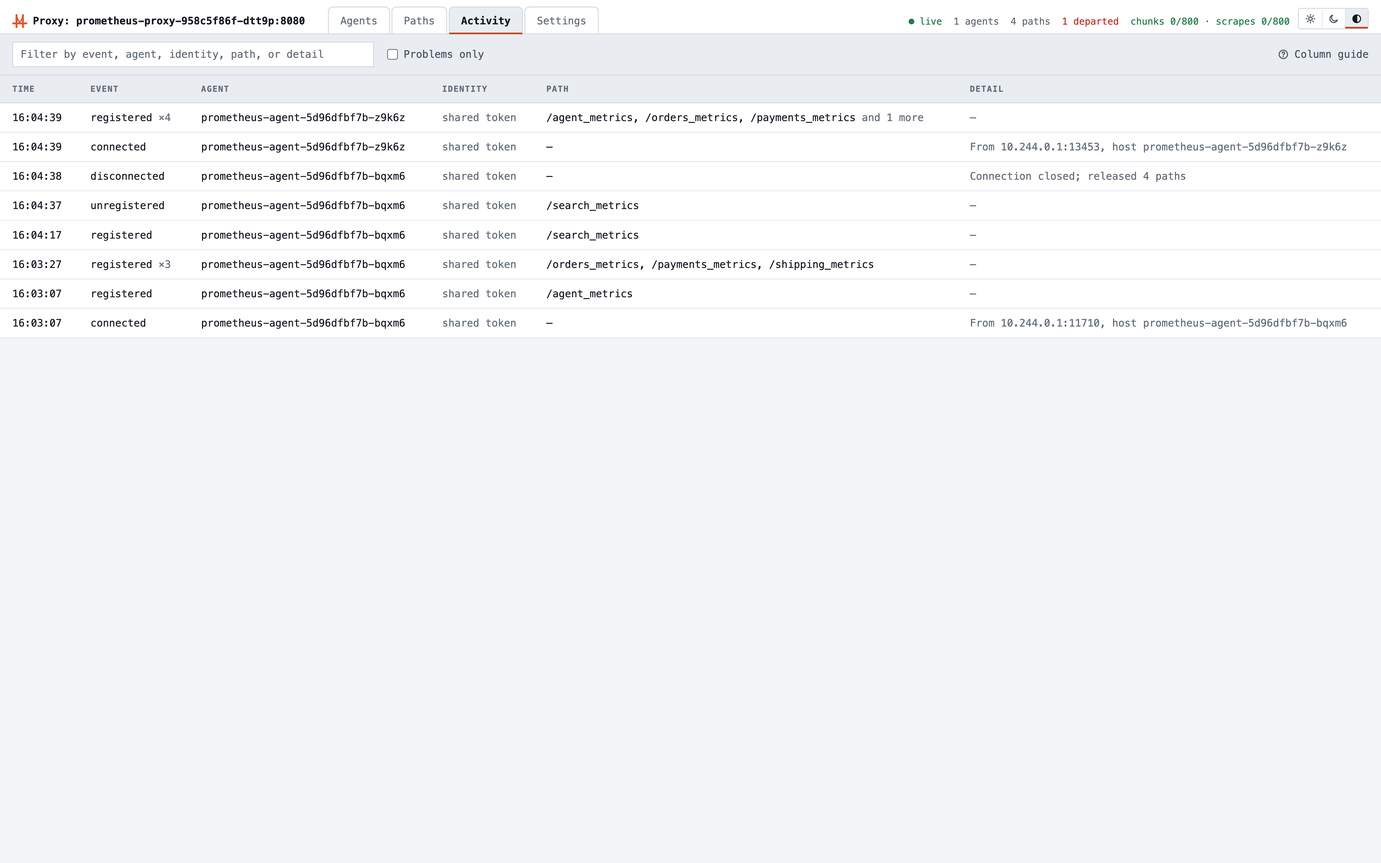
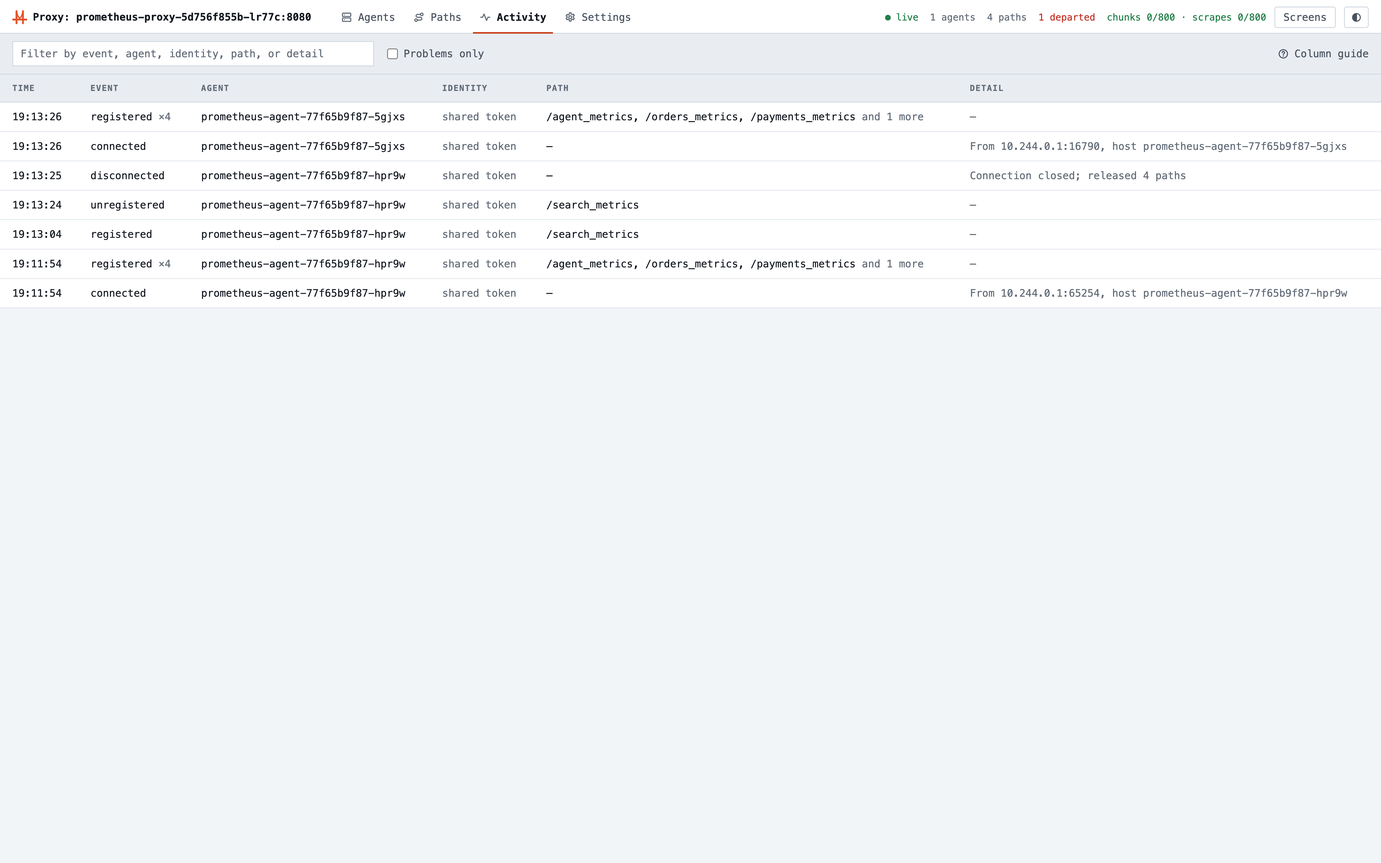
Run the Kubernetes demo's tour in the proxy's screens page (#590)
The proxy's config lists the agent's dashboard, at the port demo.sh agent-dashboard forwards, and Prometheus's targets
as screens. demo.sh gives the proxy each screen's address through the proxy chart's env, from the ports kind publishes
and the forward holds, so a port moved for make up moves its tab too. make up prints and waits for the page, make open
opens it, and the tour, scenarios, README, and docs page link into it, with part 3 putting the proxy's Paths view
beside Prometheus's targets as a Service is annotated, and part 4 the proxy's Activity view beside the new agent pod's.
make screenshots adds a shot of the page, with the agent forwarded, and NEEDS_RELEASE_AFTER moves to 4.7.0.

DemoScreensLinksTest checks the demo: its port check reads the chart's env values in demo.sh, expanding the shell
variables they name, and takes a port kind publishes or the agent dashboard's forward, where it took compose's alone.

Claude-Session: https://claude.ai/code/session_01U6pyN4Zf6PDzS9sQqGRssh

diff --git a/src/test/kotlin/io/prometheus/misc/DemoScreensLinksTest.kt b/src/test/kotlin/io/prometheus/misc/DemoScreensLinksTest.kt
@@ -38,13 +38,14 @@ import java.io.File
 class DemoScreensLinksTest : StringSpec() {
   // A demo whose tour runs in a screens page: its directory, the proxy config (in the directory) that lists the
   // screens, its docs page, the page's address at the default port, the compose service of the proxy that serves it,
-  // and, for a demo that stops that proxy, the stretches of its files read while it's down.
+  // or null for the Kubernetes demo's, which the proxy chart runs, and, for a demo that stops that proxy, the stretches
+  // of its files read while it's down.
   private data class ScreensDemo(
     val dir: String,
     val config: String,
     val page: String,
     val pageUrl: String,
-    val proxyService: String,
+    val proxyService: String?,
     val proxyDown: List<ProxyDown> = emptyList(),
   ) {
     // A link in the README or docs page, which give the page's address at the default port.
@@ -152,6 +153,47 @@ class DemoScreensLinksTest : StringSpec() {
         text.isNotEmpty() && !text.startsWith("#") && line.length - text.length <= 2
       }
     return (if (end < 0) rest else rest.take(end)).joinToString("\n")
+  }
+
+  // The page's proxy's environment, a line "NAME: value" for each variable, with each port variable in a value written
+  // ${VARIABLE:-default}: compose's, for the proxy's service, or, for the Kubernetes demo's proxy, the env values
+  // demo.sh gives the proxy chart, each shell variable in them replaced by what the script sets it to.
+  private fun ScreensDemo.proxyEnvironment(): String {
+    if (proxyService != null) return composeService(proxyService)
+    val script = File(dir, "demo.sh").readText()
+    val values = CHART_ENV_VALUE.findAll(script).associate { it.groupValues[1] to it.groupValues[2] }
+    return CHART_ENV_NAME.findAll(script).joinToString("\n") { name ->
+      "  ${name.groupValues[2]}: ${expanded(script, values[name.groupValues[1]].orEmpty())}"
+    }
+  }
+
+  // [text] with each $NAME or ${NAME} in it replaced by what [script] sets NAME to, in turn, until only the
+  // ${VARIABLE:-default} a port is read from are left, a cluster_port call's default being its last argument.
+  private fun expanded(
+    script: String,
+    text: String,
+  ): String =
+    SHELL_VARIABLE.replace(text) { match ->
+      val name = match.groupValues[1].ifEmpty { match.groupValues[2] }
+      val assigned = Regex("""(?m)^${Regex.escape(name)}="(.*)"$""").find(script)?.groupValues?.get(1)
+      if (assigned == null) {
+        match.value
+      } else {
+        CLUSTER_PORT.find(assigned)?.let { "\${${it.groupValues[1]}:-${it.groupValues[2]}}" }
+          ?: expanded(script, assigned)
+      }
+    }
+
+  // Whether the demo publishes a port on the host from [variable]: compose's 127.0.0.1:${variable:-<port>}:, or, for
+  // the Kubernetes demo, a kind node's hostPort whose comment names it, or demo.sh's port-forward to a port it sets.
+  private fun ScreensDemo.publishes(variable: String): Boolean {
+    if (proxyService != null) return published(variable).containsMatchIn(File(dir, COMPOSE).readText())
+    val kind = File(dir, "kind").listFiles().orEmpty().joinToString("\n") { it.readText() }
+    if (Regex("""hostPort: \d+ +# ${Regex.escape(variable)}\b""").containsMatchIn(kind)) return true
+    val script = File(dir, "demo.sh").readText()
+    return Regex("""(?m)^([A-Z_]+)="\$\{${Regex.escape(variable)}:-\d+}"$""").findAll(script).any { port ->
+      Regex("""port-forward [^;\n]*(\\\n[^;\n]*)?"\$${port.groupValues[1]}:""").containsMatchIn(script)
+    }
   }
 
   init {
@@ -267,26 +309,26 @@ class DemoScreensLinksTest : StringSpec() {
       }
     }
 
-    // A screen's url is its default port's, and compose gives the page's proxy the url a moved port makes, as ${?NAME},
-    // so a port moved with a *_PORT variable moves its tab too. Each ${?NAME} in the config is set to a marker, so each
-    // url says which variable it reads. Compose's value, its ports at their defaults, must be the screen's url, and
-    // each port variable in it one that publishes a port: a screen with no override, a variable compose doesn't set,
-    // or one that names another screen's port, as a slip among the near-identical lines would, leaves the tab behind.
-    "every screen should follow its port: compose gives the page's proxy each url, from the port it publishes" {
+    // A screen's url is its default port's, and the page's proxy is given the url a moved port makes, as ${?NAME}, by
+    // compose, or by demo.sh through the proxy chart's env, so a port moved with a *_PORT variable moves its tab too.
+    // Each ${?NAME} in the config is set to a marker, so each url says which variable it reads. The value given, its
+    // ports at their defaults, must be the screen's url, and each port variable in it one that publishes a port: a
+    // screen with no override, a variable the proxy isn't given, or one that names another screen's port, as a slip
+    // among the near-identical lines would, leaves the tab behind.
+    "every screen should follow its port: the page's proxy is given each url, from a port the demo publishes" {
       DEMOS.forEach { demo ->
         withClue(demo.dir) {
           val names = OPTIONAL.findAll(File(demo.dir, demo.config).readText()).map { it.groupValues[1] }.toSet()
           val urls = demo.entries(names.associateWith { "$MARKER$it" }).associate { it.name to it.url }
           urls.filterValues { !it.startsWith(MARKER) }.keys.shouldBeEmpty()
           val defaults = demo.entries().associate { it.name to it.url }
-          val service = demo.composeService(demo.proxyService)
-          val compose = File(demo.dir, COMPOSE).readText()
+          val environment = demo.proxyEnvironment()
           urls
             .mapNotNull { (screen, marked) ->
               val name = marked.removePrefix(MARKER)
               val value =
-                Regex("""(?m)^\s+${Regex.escape(name)}:\s*(\S+)""").find(service)?.groupValues?.get(1)
-                  ?: return@mapNotNull "$screen: compose doesn't give ${demo.proxyService} $name"
+                Regex("""(?m)^\s+${Regex.escape(name)}:\s*(\S+)""").find(environment)?.groupValues?.get(1)
+                  ?: return@mapNotNull "$screen: ${demo.proxyService ?: "the proxy chart"} isn't given $name"
               val ports = PORT_DEFAULT.findAll(value).map { it.groupValues[1] }.toList()
               val atDefaults = PORT_DEFAULT.replace(value) { it.groupValues[2] }
               when {
@@ -298,8 +340,8 @@ class DemoScreensLinksTest : StringSpec() {
                   "$screen: $name names no port variable"
                 }
 
-                ports.any { !published(it).containsMatchIn(compose) } -> {
-                  "$screen: $name's port isn't one compose publishes"
+                ports.any { !demo.publishes(it) } -> {
+                  "$screen: $name's port isn't one the demo publishes"
                 }
 
                 else -> {
@@ -345,6 +387,14 @@ class DemoScreensLinksTest : StringSpec() {
 
     // A port compose publishes on the host from [variable]: "127.0.0.1:${variable:-<port>}:<port in the container>".
     fun published(variable: String) = Regex("""127\.0\.0\.1:\$\{${Regex.escape(variable)}:-\d+}:""")
+
+    // The Kubernetes demo's env values for the proxy chart, each "env[<i>].name=<NAME>" and "env[<i>].value=<value>"
+    // in demo.sh; a port demo.sh reads with cluster_port "${VARIABLE:-}" <NodePort> <default>; and a shell variable,
+    // $NAME or ${NAME}, but not ${NAME:-default}.
+    val CHART_ENV_NAME = Regex("""env\[(\d+)]\.name=([A-Za-z0-9_]+)""")
+    val CHART_ENV_VALUE = Regex("""env\[(\d+)]\.value=([^"\s]+)""")
+    val CLUSTER_PORT = Regex("""cluster_port "\$\{([A-Za-z0-9_]+):-}" \d+ (\d+)""")
+    val SHELL_VARIABLE = Regex("""\$(?:([A-Za-z_][A-Za-z0-9_]*)|\{([A-Za-z_][A-Za-z0-9_]*)})""")
 
     val BASICS =
       ScreensDemo(
@@ -488,6 +538,17 @@ class DemoScreensLinksTest : StringSpec() {
           ),
       )
 
-    val DEMOS = listOf(BASICS, NETWORK, KTOR, NGINX, PLAIN_KOTLIN, SPRING_BOOT)
+    // The Kubernetes demo's page is the proxy's, which the proxy chart runs, and no part of its tour stops; demo.sh
+    // gives it each screen's url through the chart's env.
+    val KUBERNETES =
+      ScreensDemo(
+        dir = "demos/kubernetes",
+        config = "config/proxy.conf",
+        page = "website/prometheus-proxy/docs/kubernetes-demo.md",
+        pageUrl = "http://localhost:8294/screens",
+        proxyService = null,
+      )
+
+    val DEMOS = listOf(BASICS, NETWORK, KTOR, NGINX, PLAIN_KOTLIN, SPRING_BOOT, KUBERNETES)
   }
 }

diff --git a/demos/kubernetes/README.md b/demos/kubernetes/README.md
@@ -47,7 +47,7 @@ its targets:
 ```bash
 git clone -c advice.detachedHead=false --depth 1 --branch 4.7.1 https://github.com/pambrose/prometheus-proxy.git
 cd prometheus-proxy/demos/kubernetes
-make up      # creates both clusters, installs everything, and prints the URLs
+make up      # creates both clusters, installs everything, and prints the screens page's URL
 make tour    # walks through the guided tour below, pausing before each step
 make down    # deletes both clusters
 ```
@@ -57,15 +57,21 @@ the agent's and Python's, which takes a few minutes. After that, `make up` on ru
 `make down` deletes the clusters, and the images inside them, so the next `make up` needs a network connection again.
 To show it without a network connection, run `make up` once beforehand and leave it running.
 
+Then open the proxy's [screens page](https://prometheus-proxy.com/web-dashboard/#screens), one browser tab that holds
+every screen in the demo, each in a tab of its own: the proxy's dashboard, the agent's, and Prometheus. The agent's tab
+is red until `./demo.sh agent-dashboard` forwards its port, below. `make open` opens it, and the guided tour's links
+open in it: <http://localhost:8294/>
+
+Each screen also has an address of its own, which the table gives with the variable that moves its port:
+
 | What | URL | Port variable |
 |---|---|---|
+| The screens page, every screen in one tab | <http://localhost:8294/> | `KUBERNETES_DEMO_DASHBOARD_PORT` |
 | Proxy dashboard | <http://localhost:8294/dashboard> | `KUBERNETES_DEMO_DASHBOARD_PORT` |
 | Agent dashboard | <http://localhost:8295/dashboard>, while `./demo.sh agent-dashboard` runs | `KUBERNETES_DEMO_AGENT_DASHBOARD_PORT` |
 | Prometheus | <http://localhost:9290> (targets at `/targets`) | `KUBERNETES_DEMO_PROMETHEUS_PORT` |
 | The proxy's service discovery | <http://localhost:8280/discovery> | `KUBERNETES_DEMO_PROXY_PORT` |
 | `kubectl` | `kubectl --context kind-pp-monitoring …` and `kubectl --context kind-pp-target …` | — |
-
-`make open` opens the proxy dashboard and Prometheus's targets in your browser.
 
 Each port is the basics demo's plus 200, so the demos can run side by side. kind publishes the ports, through NodePort
 Services in the monitoring cluster, when it creates `pp-monitoring`, so if one is already taken, set its variable from
@@ -78,13 +84,13 @@ Every port binds to `127.0.0.1` only. The dashboard runs without its login, so t
 anything shared.
 
 The agent dashboard's port, 8295, isn't one kind publishes: `pp-target` publishes none, and the agent chart leaves the
-dashboard off the agent's Service. `./demo.sh agent-dashboard` reaches it as the chart's notes tell an operator to,
-with `kubectl --context kind-pp-target -n monitoring port-forward deploy/prometheus-agent 8295:8095`, in the
-foreground. It holds the port only while it runs, on `localhost` only, and `KUBERNETES_DEMO_AGENT_DASHBOARD_PORT` moves
-it without recreating a cluster. Nothing keeps it, so give it to each `./demo.sh agent-dashboard` and `make tour`, or
-export it in your shell. A port-forward reaches one pod, so once the agent's pod is replaced, as
-`delete-agent-pod` and `change-config` do, it fails at the next request, with `error: lost connection to pod`: run it
-again. The agent's dashboard runs without its login too.
+dashboard off the agent's Service. `./demo.sh agent-dashboard` reaches it as the chart's notes tell an operator to, with
+`kubectl --context kind-pp-target -n monitoring port-forward deploy/prometheus-agent 8295:8095`, in the foreground. It
+holds the port only while it runs, on `localhost` only, and `KUBERNETES_DEMO_AGENT_DASHBOARD_PORT` moves it without
+recreating a cluster. Nothing keeps it, so give it to each `./demo.sh agent-dashboard` and `make tour`, or export it in
+your shell, and to a `make up`, which gives the screens page's agent tab the port. A port-forward reaches one pod, so
+once the agent's pod is replaced, as `delete-agent-pod` and `change-config` do, it fails at the next request, with
+`error: lost connection to pod`: run it again. The agent's dashboard runs without its login too.
 
 kind adds a `kind-pp-monitoring` and a `kind-pp-target` context to your kubeconfig. `demo.sh` names the context on
 every command, and puts back the context that was current when it creates a cluster.
@@ -132,9 +138,10 @@ These are the earlier demos' proxy and agent, now deployed with their Helm chart
 - `helm list` shows the proxy chart in `pp-monitoring` and the agent chart in `pp-target`: the charts the project
   ships, given nothing but a values file and a config file each, and, for the agent, the proxy's address.
 - Prometheus's config names no target in `pp-target`. Its one job asks the proxy's `/discovery` what to scrape.
-- Open the proxy dashboard. One agent is connected, named for its pod, `prometheus-agent-<hash>-<id>`, the name
-  `kubectl` shows, with four paths: its own metrics (source **cfg**, from its config) and the three services (source
-  **disc**, from discovery). Prometheus's targets page shows all four up.
+- Open the proxy dashboard in the screens page, <http://localhost:8294/screens#proxy>. One agent is connected, named
+  for its pod, `prometheus-agent-<hash>-<id>`, the name `kubectl` shows, with four paths: its own metrics (source
+  **cfg**, from its config) and the three services (source **disc**, from discovery). Prometheus's targets page shows
+  all four up: <http://localhost:8294/screens#prometheus/targets>
 
 ### 2. The Agent's Own Dashboard, Reached with kubectl port-forward
 
@@ -152,8 +159,8 @@ connection, each path's registration and recent scrapes, and its discovery. See
   can reach it.
 - The Paths view lists the agent's four paths, each **registered** with the proxy: `agent_metrics`, **static**, from
   its config, and the three services, **discovered**, with the cluster-local URLs the agent scrapes. The dots beside
-  each are its recent scrapes, one for each scrape Prometheus sent through the proxy. Open it at
-  <http://localhost:8295/dashboard>
+  each are its recent scrapes, one for each scrape Prometheus sent through the proxy. Open it in the screens page,
+  whose agent tab turns green once the forward runs: <http://localhost:8294/screens#agent>
 - Select `/orders_metrics`. Recent scrapes lists its last scrapes as the agent saw them: the target's status, how long
   the fetch took, and the body's size. Scrape now has the agent fetch the target at once, from inside `pp-target`, the
   only place its address resolves: `http://orders.apps.svc.cluster.local:8000/metrics`
@@ -179,7 +186,8 @@ connection, each path's registration and recent scrapes, and its discovery. See
   about 10 seconds after the Service was created, and in Prometheus up to about 10 seconds after that, at a 5-second
   discovery refresh.
 - The proxy dashboard's Paths view shows `search_metrics` with source **disc**. The agent's pod is the same one, with
-  no restarts: nothing restarted, and no other path missed a scrape.
+  no restarts: nothing restarted, and no other path missed a scrape. Beside Prometheus's targets, the path reaches one,
+  then the other: <http://localhost:8294/screens#proxy/paths+prometheus/targets>
 - On the agent's dashboard, `search_metrics` joins the Paths view, **discovered** and **registered**, Discovery on the
   Connection view counts four entries, and the Activity view adds a **registered** line for it.
 - On a production kubelet, the delay is mostly the kubelet's. It copies a changed ConfigMap into the pods that mount
@@ -216,8 +224,9 @@ The basics demo shows dynamic discovery itself, from a file; this part shows Kub
 - The proxy dashboard's Activity view shows the old pod's paths leaving and the new pod's arriving. In Prometheus, each
   target's `agent` label is the pod's name, so a new pod starts new series, as a `pod` label would.
 - `./demo.sh agent-dashboard` reached the old pod, since a port-forward reaches one pod, so it fails at the next
-  request after the replacement. Run it again: the new pod's Activity view lists only its own start, its connect and
-  registrations. The proxy saw both pods, but each agent sees only its own.
+  request after the replacement, and the screens page's agent tab turns red. Run it again: the tab reloads, and the new
+  pod's Activity view lists only its own start, its connect and registrations. The proxy saw both pods, but each agent
+  sees only its own: <http://localhost:8294/screens#proxy/activity+agent/activity>
 
 ### 5. A Config Change Restarts the Agent; a Targets Change Doesn't
 
@@ -253,7 +262,7 @@ The basics demo shows dynamic discovery itself, from a file; this part shows Kub
 | `make tour [PART=n]` | Walks through the guided tour above, from part 1 or the one given, pausing before each step |  |
 | `make status` | Both clusters' pods and Services, the Helm releases, and the URLs |  |
 | `make logs [SERVICE=name]` | Follows a workload's logs: `agent` (the default), `proxy`, `prometheus`, `targets-sync`, or a service |  |
-| `make open` | Opens the proxy dashboard and Prometheus's targets in the browser |  |
+| `make open` | Opens the proxy's screens page, which holds its dashboard, the agent's, and Prometheus's targets, in the browser |  |
 
 `remove-service` and `restore-config` undo every scenario. For a clean slate, `make down && make up`.
 
@@ -265,7 +274,7 @@ The basics demo shows dynamic discovery itself, from a file; this part shows Kub
 | `kind/pp-target.yaml` | The target cluster: its node image, no host ports, and the kubelet's 5-second `syncFrequency` for part 3 |
 | `values/proxy.yaml` | The proxy chart's values: the token's Secret, the dashboard, and a NodePort `agentService` |
 | `values/agent.yaml` | The agent chart's values: the token's Secret, discovery from `agent-targets` every 5 seconds, the agent's dashboard, and `AGENT_NAME` from the pod's name |
-| `config/proxy.conf` | The proxy's config, which `demo.sh` passes to the chart with `--set-file`: the dashboard and its link into Prometheus, and service discovery |
+| `config/proxy.conf` | The proxy's config, which `demo.sh` passes to the chart with `--set-file`: the dashboard, its link into Prometheus, and the screens its screens page holds, whose addresses `demo.sh` gives the proxy through the chart's `env`, and service discovery |
 | `config/agent.conf` | The agent's main config: its scrape timeout, and its one static path, its own metrics |
 | `config/agent-change.conf` | Part 5's change: the agent's JVM metrics, which `change-config` appends to `agent.conf` |
 | `k8s/monitoring.yaml` | `pp-monitoring`'s namespace, Prometheus, and the demo's NodePort Services |
@@ -277,7 +286,7 @@ The basics demo shows dynamic discovery itself, from a file; this part shows Kub
 | `sync/targets_sync.py` | targets-sync |
 | `Makefile` | The demo's targets: `make up`, `make up-local` (which runs the proxy and agent built from this checkout, for trying a change to them), `down`, `status`, `open`, `tour`, and `logs`, which `make help` lists, and `screenshots`, which it leaves out, since it's for maintaining the site |
 | `demo.sh` | Creating and deleting the clusters, installing the charts, the scenarios, and `agent-dashboard`. Its `NEEDS_RELEASE_AFTER` is the newest release that lacks something the demo shows: until the release the docs give is later and its images are on Docker Hub, `make up` builds the proxy and agent from this checkout, as `make up-local` does, so set it to the latest release on Docker Hub when the demo comes to use something no release has yet |
-| `bin/screenshots.sh` | The Kubernetes Demo page's screenshots, in the dark and light themes. `make screenshots` builds and starts the demo, waits a minute so the agent's uptime reads in minutes, plays parts 1, 3, and 4, and writes them to `website/prometheus-proxy/docs/images/kubernetes-demo/` (needs Chrome, ImageMagick 7, and `cwebp`). While checking a change, `SKIP_UPTIME_WAIT=1` skips the minute, and `WAIT_SECS` sets how long each wait for a scene may take before the script fails (default 150) |
+| `bin/screenshots.sh` | The Kubernetes Demo page's screenshots, the proxy's screens page among them, in the dark and light themes. `make screenshots` builds and starts the demo, waits a minute so the agent's uptime reads in minutes, plays parts 1, 3, and 4, and writes them to `website/prometheus-proxy/docs/images/kubernetes-demo/` (needs Chrome, ImageMagick 7, and `cwebp`). While checking a change, `SKIP_UPTIME_WAIT=1` skips the minute, and `WAIT_SECS` sets how long each wait for a scene may take before the script fails (default 150) |
 
 How `make up` wires the two clusters together:
 

diff --git a/website/prometheus-proxy/docs/kubernetes-demo.md b/website/prometheus-proxy/docs/kubernetes-demo.md
@@ -68,7 +68,7 @@ its targets:
 ```bash
 git clone -c advice.detachedHead=false --depth 1 --branch 4.7.1 https://github.com/pambrose/prometheus-proxy.git
 cd prometheus-proxy/demos/kubernetes
-make up      # creates both clusters, installs everything, prints the URLs
+make up      # creates both clusters, installs everything, prints the screens page's URL
 make tour    # walks through every scenario below, pausing before each step
 make down    # deletes both clusters
 ```
@@ -76,8 +76,16 @@ make down    # deletes both clusters
 The first `make up` pulls the kind node image, and each new cluster pulls its images, the proxy's and Prometheus's or
 the agent's and Python's, which takes a few minutes. After that, `make up` on running clusters takes under a minute.
 
+Then open the proxy's [screens page](web-dashboard.md#screens), <http://localhost:8294/>, one browser tab that holds
+every screen in the demo, each in a tab of its own: the proxy's dashboard, the agent's, and Prometheus. The agent's tab
+is red until `./demo.sh agent-dashboard` forwards its port, below. `make open` opens it, and the tour's links open in
+it.
+
+Each screen also has an address of its own, which the table gives with the variable that moves its port:
+
 | What | URL | Port variable |
 |---|---|---|
+| The screens page, every screen in one tab | <http://localhost:8294/> | `KUBERNETES_DEMO_DASHBOARD_PORT` |
 | Proxy dashboard | <http://localhost:8294/dashboard> | `KUBERNETES_DEMO_DASHBOARD_PORT` |
 | Agent dashboard | <http://localhost:8295/dashboard>, while `./demo.sh agent-dashboard` runs | `KUBERNETES_DEMO_AGENT_DASHBOARD_PORT` |
 | Prometheus | <http://localhost:9290> (targets at `/targets`) | `KUBERNETES_DEMO_PROMETHEUS_PORT` |
@@ -97,7 +105,8 @@ anything shared.
 The agent's dashboard is the exception, since the target cluster publishes no port: `./demo.sh agent-dashboard` reaches
 it with `kubectl port-forward`, on `localhost` only, and holds its port only while it runs.
 `KUBERNETES_DEMO_AGENT_DASHBOARD_PORT` moves it without recreating a cluster. Nothing keeps it, so give it to each
-`./demo.sh agent-dashboard` and `make tour`, or export it in your shell.
+`./demo.sh agent-dashboard` and `make tour`, or export it in your shell, and to a `make up`, which gives the screens
+page's agent tab the port.
 
 ## What's Running
 
@@ -185,6 +194,7 @@ path's Scrape now has the agent fetch its target at once, from inside the target
 resolves. The Connection view shows the agent connected to the proxy's NodePort, and under Discovery the file the
 chart mounts from the targets ConfigMap, read every 5 seconds, with how its last read went. The Activity view lists
 what the agent did since its pod started: it connected, then registered its static path and its discovered ones.
+Open it in the screens page, whose agent tab turns green once the forward runs: <http://localhost:8294/screens#agent>
 
 The agent keeps that list in memory, so each pod starts its own, and a port-forward reaches one pod, so once the
 agent's pod is replaced, as in the scenarios below that delete the pod or change its config, it fails at the next
@@ -200,7 +210,14 @@ targets-sync sees the new Service and writes it into the agent's targets ConfigM
 into the agent's pod, the agent re-reads it and registers the path, and Prometheus picks it up from the proxy's
 `/discovery`. The path was in `/discovery` up to about 10 seconds after the Service was created, and in Prometheus up
 to about 10 seconds after that, at a 5-second discovery refresh. Nothing restarted: the agent's pod is the same one,
-and no other path missed a scrape.
+and no other path missed a scrape. The screens page shows the proxy dashboard's Paths view beside Prometheus's
+targets, where the path reaches one, then the other: <http://localhost:8294/screens#proxy/paths+prometheus/targets>
+
+<figure markdown="span">
+  ![The proxy's Paths view beside Prometheus's targets, with search_metrics on both](images/kubernetes-demo/screens.webp#only-dark){ loading=lazy }
+  ![The proxy's Paths view beside Prometheus's targets, with search_metrics on both](images/kubernetes-demo/screens-light.webp#only-light){ loading=lazy }
+  <figcaption>The proxy's screens page: search_metrics on the proxy's Paths view, from discovery, and up in Prometheus's targets</figcaption>
+</figure>
 
 <figure markdown="span">
   ![The Paths view, with search_metrics from discovery](images/kubernetes-demo/discovered.webp#only-dark){ loading=lazy }
@@ -247,8 +264,9 @@ Prometheus scrape that lands in it fails, and the next succeeds. Nobody touched 
 </figure>
 
 The agent's own dashboard reached the old pod, since a port-forward reaches one pod, so its port-forward fails at the
-next request. Run `./demo.sh agent-dashboard` again, and the new pod's Activity view lists only its own start, where
-the proxy's, above, saw both pods.
+next request, and the screens page's agent tab turns red. Run `./demo.sh agent-dashboard` again, and the tab reloads:
+the new pod's Activity view lists only its own start, where the proxy's saw both pods:
+<http://localhost:8294/screens#proxy/activity+agent/activity>
 
 ### A Config Change Restarts the Agent; a Targets Change Doesn't
 
@@ -284,7 +302,7 @@ original config back, with another replacement.
 | `make tour [PART=n]` | Walks through every scenario, from part 1 or the one given, pausing before each step |  |
 | `make status` | Both clusters' pods and Services, the Helm releases, and the URLs |  |
 | `make logs [SERVICE=name]` | Follows a workload's logs: `agent`, the default, `proxy`, `prometheus`, `targets-sync`, or a service |  |
-| `make open` | Opens the dashboard and Prometheus's targets in the browser |  |
+| `make open` | Opens the proxy's screens page, which holds its dashboard, the agent's, and Prometheus's targets, in the browser |  |
 
 `remove-service` and `restore-config` undo every scenario. For a clean slate, `make down && make up`.
 

diff --git a/CHANGELOG.md b/CHANGELOG.md
@@ -117,6 +117,10 @@ All notable changes to this project are documented in this file.
   and its tour, scenarios, README, and page link into `/screens`, which `make open` opens, but while part 4 has the
   proxy stopped, when they give the agent dashboard's own address; `make up` builds from the checkout until 4.7.1 is
   on Docker Hub
+- The Kubernetes demo's proxy lists the agent's dashboard, at the port `./demo.sh agent-dashboard` forwards, and
+  Prometheus's targets as its screens, whose addresses `demo.sh` gives it through the proxy chart's `env`, and its tour,
+  scenarios, README, and page link into `/screens`, which `make open` opens; `make screenshots` adds a shot of the
+  page, and `make up` builds from the checkout until 4.7.1 is on Docker Hub
 - `examples/simple.conf` and the basics, network, and Kubernetes demos' agents serve their own metrics through the
   proxy with `agent.metrics.proxyPath`, in-process, where each scraped its own port, `localhost:8083`, as a path; all
   but the Kubernetes demo's, whose chart opens the port for its Service, leave the metrics port off

diff --git a/RELEASE_NOTES.md b/RELEASE_NOTES.md
@@ -93,6 +93,9 @@ its own that holds them all, with Prometheus and Grafana.
 - **The Spring Boot demo's tour runs in one browser tab.** The proxy's screens page holds its dashboard, the
   roastery's status page, its agent's dashboard, and Prometheus: `make up` prints its address, `make open` opens it,
   and the tour's links open in it, but for the part that stops the proxy.
+- **The Kubernetes demo's tour runs in one browser tab.** The proxy's screens page holds its dashboard, the agent's,
+  once `./demo.sh agent-dashboard` forwards it, and Prometheus: `make up` prints its address, `make open` opens it, and
+  the tour's links open in it.
 - **The `docker run` examples keep their ports off the network.** The quick-start commands no longer publish the
   agents' port, 50051, which their agent reaches over the shared Docker network, and publish the scrape, admin, and
   metrics ports on `127.0.0.1` only. The Docker page's production example, for agents on other hosts, publishes 50051
